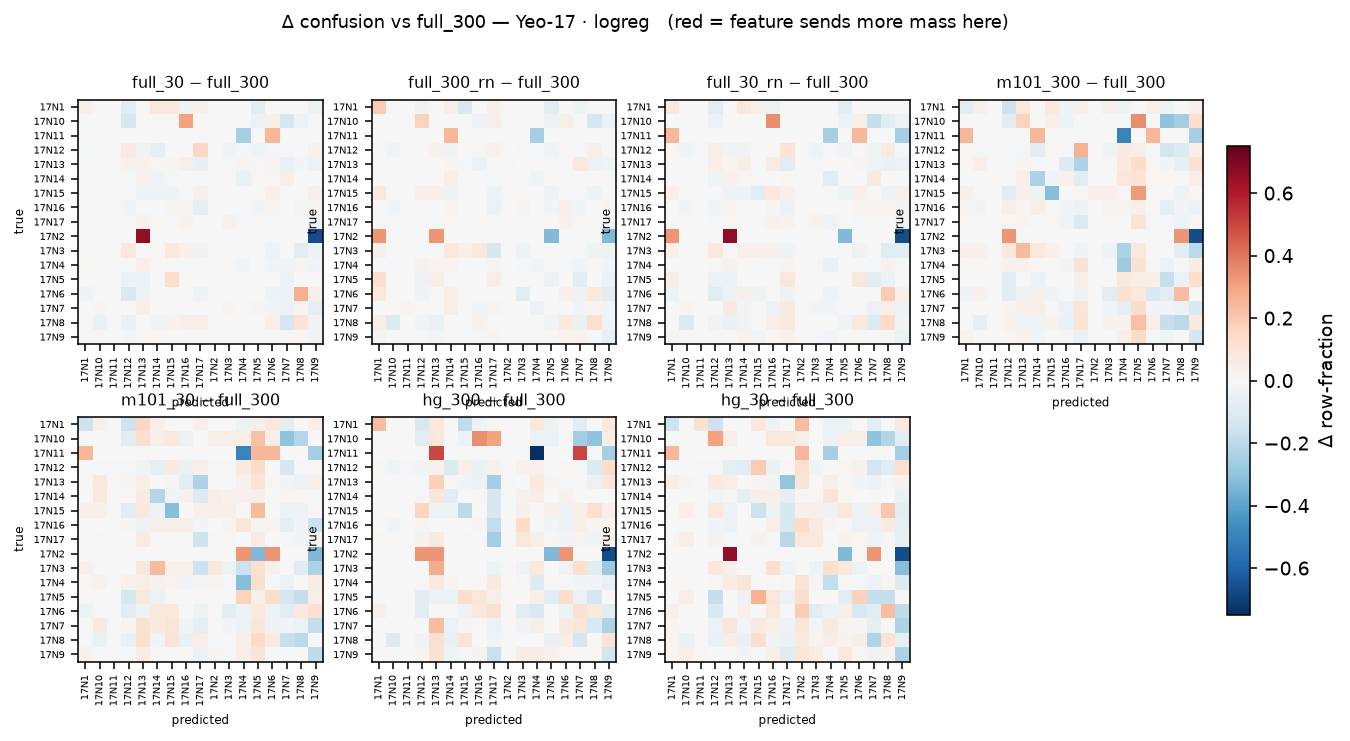
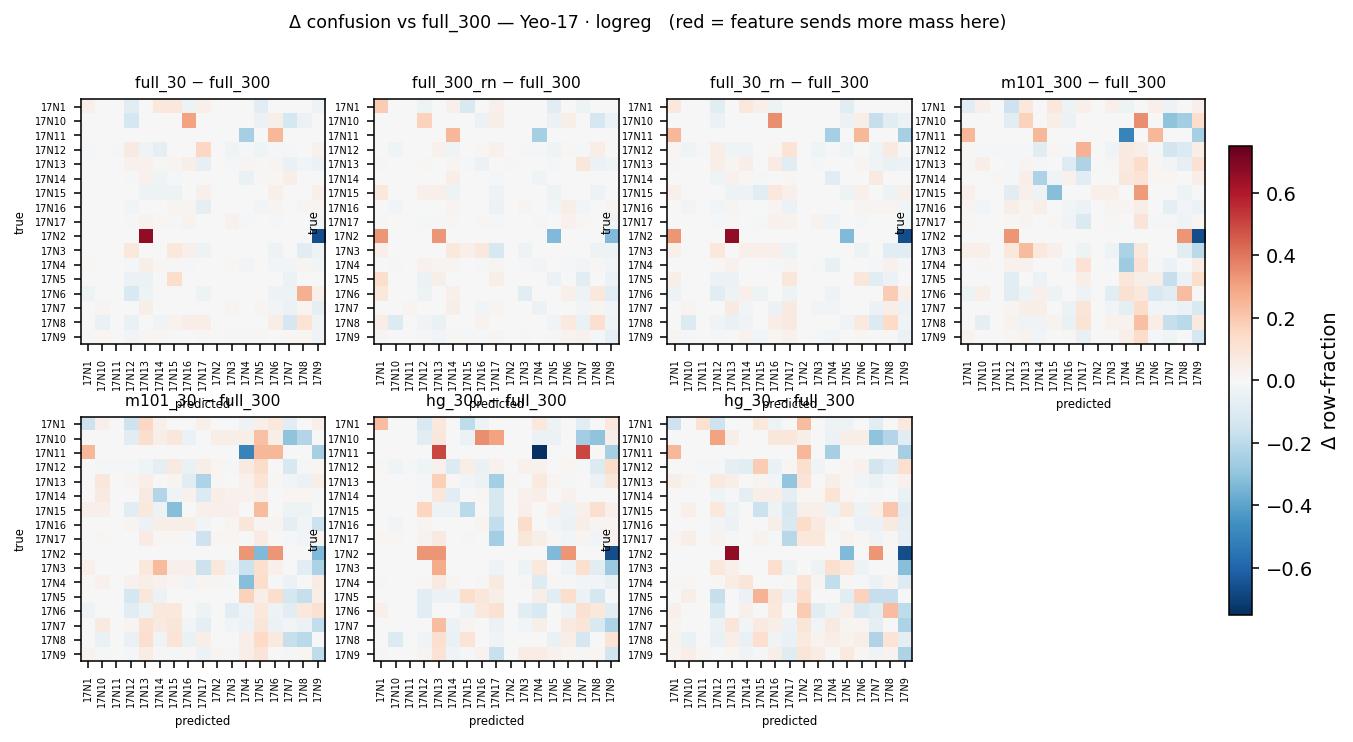
status site: reflect 2026-07-19 reruns (clustering K=9, decoding refresh)
- Clustering (02): repoint stage-02 to today's HG K-Means run 20260719_153420
  (K shifted 7->9, silhouette 0.152, n=2102). Fresh SEM-shaded centroids + the
  9 cluster chips + a new consensus-stability figure (Fig 2.5). Commit those PNGs.
- Decoding (03): refreshed _compare figures from today's 391 rerun; mark the stage
  "reran 07-19" in the status table, note the 2 full_300/logreg combos that crashed
  (fall back to Jun-24).
- Caveats reorganised: "Still to run" (clustering 213/252 ranking+recon; the 2 decoding
  reruns; nb 11) vs "Done 2026-07-19".

diff --git a/analysis_status.html b/analysis_status.html
@@ -118,7 +118,7 @@
     <div class="kpis">
       <div class="kpi"><div class="v">~29</div><div class="l">patients (EL · PAT · Micro)</div></div>
       <div class="kpi"><div class="v">3</div><div class="l">conditions (audio/pic/read)</div></div>
-      <div class="kpi"><div class="v">2095</div><div class="l">clustered samples</div></div>
+      <div class="kpi"><div class="v">2102</div><div class="l">clustered samples</div></div>
       <div class="kpi"><div class="v">0.60</div><div class="l">best condition decode (BA)</div></div>
     </div>
 
@@ -139,12 +139,12 @@
       <tr><td><b>01 ERSP</b></td><td><span class="pill ok">current</span></td>
         <td>ERSP + HG cube for the full cohort (nb 140).</td>
         <td>Micro/macro (nb 11) not yet run; spike‑sorting figures are notebook‑inline only.</td></tr>
-      <tr><td><b>02 Clustering</b></td><td><span class="pill ok">current</span></td>
-        <td><b>HG, K‑Means K=7</b>, n=2095, silhouette 0.146 — validated + ranked + recon.</td>
-        <td><code>NOTEBOOKS.md</code> still names the downsampled (212) track — <b>pick your headline</b>.</td></tr>
-      <tr><td><b>03 Decoding</b></td><td><span class="pill warn">refresh</span></td>
+      <tr><td><b>02 Clustering</b></td><td><span class="pill ok">reran 07‑19</span></td>
+        <td><b>HG, K‑Means K=9</b>, n=2102, silhouette 0.152 — with consensus‑stability validation.</td>
+        <td>K shifted <b>7→9</b> on this rerun; ranking + recon (213/252) not yet re‑run. <code>NOTEBOOKS.md</code> still names the 212 track — <b>pick your headline</b>.</td></tr>
+      <tr><td><b>03 Decoding</b></td><td><span class="pill ok">reran 07‑19</span></td>
         <td>Condition <b>BA 0.60</b> (HG line); Yeo‑7 0.35; Yeo‑17 0.20 — all beat the permutation null.</td>
-        <td>On‑disk notebooks are an older build — regenerate via <code>_build_notebooks.py</code>; decide the variant set.</td></tr>
+        <td>Notebooks regenerated + comparison figures refreshed today. 2 <code>full_300/logreg</code> combos crashed → fall back to Jun‑24; variant set still to decide.</td></tr>
       <tr><td><b>04 Pooling</b></td><td><span class="pill ok">current</span></td>
         <td>Functional roles matched, HGA timeseries + correlations, Neurosynth, fsaverage + poolv2 tool.</td>
         <td>poolv2 web tool now bit‑identical to the notebook (convergence fixed).</td></tr>
@@ -221,71 +221,82 @@
     <div class="eyebrow" style="color:var(--s2)">Stage 02</div>
     <h2 class="title">Clustering — functional response types</h2>
     <p class="lead">Group the trial‑averaged ERSPs into data‑driven response <b>types</b>. Every representation
-      clusters the <b>same</b> 2095 high‑activity samples; only the feature space changes. The high‑gamma track
+      clusters the <b>same</b> 2102 high‑activity samples; only the feature space changes. The high‑gamma track
       is the de‑facto canonical result.</p>
 
     <div class="kpis">
       <div class="kpi"><div class="v">HG</div><div class="l">canonical feature (232)</div></div>
-      <div class="kpi"><div class="v">K = 7</div><div class="l">K‑Means, silhouette 0.146</div></div>
-      <div class="kpi"><div class="v">2095</div><div class="l">samples clustered</div></div>
+      <div class="kpi"><div class="v">K = 9</div><div class="l">K‑Means, silhouette 0.152</div></div>
+      <div class="kpi"><div class="v">2102</div><div class="l">samples clustered</div></div>
     </div>
 
     <h3>Method</h3>
     <div class="method"><ul>
       <li><b>Representations (one orchestrator).</b> raw 129×300 · downsampled 15‑band×30 · minus101 (−1/0/+1) · <b>HG line</b> (70–150 Hz mean, 1‑D×300). Each → <b>K‑Means</b> + <b>Ward</b>, K‑sweep, best K by silhouette.</li>
-      <li><b>Why HG.</b> Cleanest separation (silhouette HG 0.146 &gt; downsampled 0.083 &gt; raw 0.045); optimum sits at low K, so HG uses <code>K∈[6..20]</code>.</li>
+      <li><b>Why HG.</b> Cleanest separation (silhouette HG 0.152 &gt; downsampled 0.083 &gt; raw 0.045); optimum sits at low K, so HG uses <code>K∈[6..20]</code>.</li>
       <li><b>Validation.</b> Consensus stability (50 restarts → co‑clustering + per‑cluster Jaccard), gap statistic, anatomical purity (Desikan‑Killiany).</li>
       <li><b>Ranking.</b> Dissolve clusters that fail to bridge both cohorts (EL↔PAT); composite = 4·cross‑patient + 3·stability + 2·condition + 1·spatial‑compactness.</li>
       <li><b>Recon.</b> Each cluster's electrodes rendered on the fsaverage pial surface.</li>
     </ul></div>
 
-    <h3>Results — HG, K‑Means K=7</h3>
+    <h3>Results — HG, K‑Means K=9</h3>
     <figure>
       <div class="cap"><div class="fignum">FIG 2.1</div><h4>Cluster quality — silhouette knife + PCA projection</h4>
         <ul>
-          <li>Left: per‑sample silhouette grouped by cluster; dashed line = overall mean (0.146).</li>
+          <li>Left: per‑sample silhouette grouped by cluster; dashed line = overall mean (0.152).</li>
           <li>Right: PCA(2) of the HG features coloured by cluster, with centroids.</li>
           <li>Moderate but positive separation — expected for continuous neural responses, not discrete categories.</li>
         </ul></div>
-      <div class="imgwrap"><img data-fig="02_FBM_Clustering/outputs/clustering/kmeans/hg/runs/20260605_183250/silhouette_per_cluster.png" alt="silhouette knife + PCA"></div>
+      <div class="imgwrap"><img data-fig="02_FBM_Clustering/outputs/clustering/kmeans/hg/runs/20260719_153420/silhouette_per_cluster.png" alt="silhouette knife + PCA"></div>
     </figure>
 
     <figure>
       <div class="cap"><div class="fignum">FIG 2.2</div><h4>Choosing K — silhouette across the sweep</h4>
         <ul>
-          <li>Silhouette vs K; the peak marks the chosen <b>K = 7</b> (K=6 and K=10 nearly tied).</li>
+          <li>Silhouette vs K; the peak marks the chosen <b>K = 9</b> (K=6 and K=10 nearly tied).</li>
           <li>The low optimum is exactly why the other representations' <code>[10..20]</code> range would miss it.</li>
         </ul></div>
-      <div class="imgwrap"><img data-fig="02_FBM_Clustering/outputs/clustering/kmeans/hg/runs/20260605_183250/silhouette_by_k.png" alt="silhouette by K"></div>
+      <div class="imgwrap"><img data-fig="02_FBM_Clustering/outputs/clustering/kmeans/hg/runs/20260719_153420/silhouette_by_k.png" alt="silhouette by K"></div>
     </figure>
 
     <figure>
-      <div class="cap"><div class="fignum">FIG 2.3</div><h4>The 7 response types — HG centroids (mean ± SEM)</h4>
+      <div class="cap"><div class="fignum">FIG 2.3</div><h4>The 9 response types — HG centroids (mean ± SEM)</h4>
         <ul>
           <li>Each panel = one cluster's mean high‑gamma time course across the warped trial (± SEM band).</li>
           <li>These are the "functional types": early stimulus‑locked, late response‑locked, sustained, suppressed, etc.</li>
         </ul></div>
       <div class="grid">
-        <figure><div class="cap"><h4>Cluster 0</h4></div><div class="imgwrap"><img data-fig="02_FBM_Clustering/outputs/clustering/kmeans/hg/runs/20260605_183250/cluster_centroids/cluster_00.png"></div></figure>
-        <figure><div class="cap"><h4>Cluster 1</h4></div><div class="imgwrap"><img data-fig="02_FBM_Clustering/outputs/clustering/kmeans/hg/runs/20260605_183250/cluster_centroids/cluster_01.png"></div></figure>
-        <figure><div class="cap"><h4>Cluster 2</h4></div><div class="imgwrap"><img data-fig="02_FBM_Clustering/outputs/clustering/kmeans/hg/runs/20260605_183250/cluster_centroids/cluster_02.png"></div></figure>
-        <figure><div class="cap"><h4>Cluster 3</h4></div><div class="imgwrap"><img data-fig="02_FBM_Clustering/outputs/clustering/kmeans/hg/runs/20260605_183250/cluster_centroids/cluster_03.png"></div></figure>
-        <figure><div class="cap"><h4>Cluster 4</h4></div><div class="imgwrap"><img data-fig="02_FBM_Clustering/outputs/clustering/kmeans/hg/runs/20260605_183250/cluster_centroids/cluster_04.png"></div></figure>
-        <figure><div class="cap"><h4>Cluster 5</h4></div><div class="imgwrap"><img data-fig="02_FBM_Clustering/outputs/clustering/kmeans/hg/runs/20260605_183250/cluster_centroids/cluster_05.png"></div></figure>
-        <figure><div class="cap"><h4>Cluster 6</h4></div><div class="imgwrap"><img data-fig="02_FBM_Clustering/outputs/clustering/kmeans/hg/runs/20260605_183250/cluster_centroids/cluster_06.png"></div></figure>
+        <figure><div class="cap"><h4>Cluster 0</h4></div><div class="imgwrap"><img data-fig="02_FBM_Clustering/outputs/clustering/kmeans/hg/runs/20260719_153420/cluster_centroids/cluster_00.png"></div></figure>
+        <figure><div class="cap"><h4>Cluster 1</h4></div><div class="imgwrap"><img data-fig="02_FBM_Clustering/outputs/clustering/kmeans/hg/runs/20260719_153420/cluster_centroids/cluster_01.png"></div></figure>
+        <figure><div class="cap"><h4>Cluster 2</h4></div><div class="imgwrap"><img data-fig="02_FBM_Clustering/outputs/clustering/kmeans/hg/runs/20260719_153420/cluster_centroids/cluster_02.png"></div></figure>
+        <figure><div class="cap"><h4>Cluster 3</h4></div><div class="imgwrap"><img data-fig="02_FBM_Clustering/outputs/clustering/kmeans/hg/runs/20260719_153420/cluster_centroids/cluster_03.png"></div></figure>
+        <figure><div class="cap"><h4>Cluster 4</h4></div><div class="imgwrap"><img data-fig="02_FBM_Clustering/outputs/clustering/kmeans/hg/runs/20260719_153420/cluster_centroids/cluster_04.png"></div></figure>
+        <figure><div class="cap"><h4>Cluster 5</h4></div><div class="imgwrap"><img data-fig="02_FBM_Clustering/outputs/clustering/kmeans/hg/runs/20260719_153420/cluster_centroids/cluster_05.png"></div></figure>
+        <figure><div class="cap"><h4>Cluster 6</h4></div><div class="imgwrap"><img data-fig="02_FBM_Clustering/outputs/clustering/kmeans/hg/runs/20260719_153420/cluster_centroids/cluster_06.png"></div></figure>
+        <figure><div class="cap"><h4>Cluster 7</h4></div><div class="imgwrap"><img data-fig="02_FBM_Clustering/outputs/clustering/kmeans/hg/runs/20260719_153420/cluster_centroids/cluster_07.png"></div></figure>
+        <figure><div class="cap"><h4>Cluster 8</h4></div><div class="imgwrap"><img data-fig="02_FBM_Clustering/outputs/clustering/kmeans/hg/runs/20260719_153420/cluster_centroids/cluster_08.png"></div></figure>
       </div>
     </figure>
 
     <figure>
       <div class="cap"><div class="fignum">FIG 2.4</div><h4>Centroid heatmap — all clusters at once</h4>
         <ul>
-          <li>Cluster × warped‑time HG matrix (one row per cluster); a compact view of the 7 profiles together.</li>
+          <li>Cluster × warped‑time HG matrix (one row per cluster); a compact view of the 9 profiles together.</li>
         </ul></div>
-      <div class="imgwrap"><img data-fig="02_FBM_Clustering/outputs/clustering/kmeans/hg/runs/20260605_183250/centroids.png" alt="centroid heatmap"></div>
+      <div class="imgwrap"><img data-fig="02_FBM_Clustering/outputs/clustering/kmeans/hg/runs/20260719_153420/centroids.png" alt="centroid heatmap"></div>
     </figure>
 
     <figure>
-      <div class="cap"><div class="fignum">FIG 2.5</div><h4>Anatomy — electrode coverage on fsaverage</h4>
+      <div class="cap"><div class="fignum">FIG 2.5</div><h4>Consensus stability — are the clusters reproducible?</h4>
+        <ul>
+          <li>Co‑clustering frequency over 50 K‑Means restarts (sample × sample); a sharp block‑diagonal = a cluster that reforms every time.</li>
+          <li>The key "is this real" check — strong within‑block agreement means the K=9 solution is stable, not a one‑off partition. (Regenerated in today's rerun.)</li>
+        </ul></div>
+      <div class="imgwrap"><img data-fig="02_FBM_Clustering/outputs/clustering/kmeans/hg/runs/20260719_153420/consensus_heatmap.png" alt="consensus stability"></div>
+    </figure>
+
+    <figure>
+      <div class="cap"><div class="fignum">FIG 2.6</div><h4>Anatomy — electrode coverage on fsaverage</h4>
         <ul>
           <li>All patients' contacts projected onto the common fsaverage surface (white‑matter contacts hidden).</li>
           <li>Establishes the spatial sampling that constrains every "where" claim in stages 02–04.</li>
@@ -364,9 +375,10 @@
       <li>Paired sign‑test + Wilcoxon accompany it — the fair test since the pair shares a time grid.</li></ul></div>
       <div class="imgwrap"><img data-fig="03_FBM_Classifying/outputs/classification/_compare/hg_vs_full.png" alt="hg vs full"></div></figure>
 
-    <div class="callout"><b>Refresh before presenting:</b> the on‑disk 03 notebooks are an older build (4 variants / 4 figures);
-      the current source (<code>_build_notebooks.py</code>) defines 8 variants and the 7‑figure set above — run it to regenerate.
-      Also decide whether the paper reports the <code>m101</code> (discretized) or <code>hg_*_rn</code> variant.</div>
+    <div class="callout"><b>Reran 2026‑07‑19:</b> notebooks regenerated from <code>_build_notebooks.py</code> (8 variants / the 7‑figure set above)
+      and the comparison figures rebuilt. Two <code>full_300/logreg</code> runs (condition + Yeo‑7) crashed mid‑experiment, so those
+      combos fall back to their Jun‑24 runs — re‑run just those in 320/330 to make everything today. Still to decide: whether the
+      paper reports the <code>m101</code> (discretized) or <code>hg_*_rn</code> variant.</div>
   </section>
 
   <!-- ============ STAGE 04 ============ -->
@@ -436,16 +448,24 @@
 
     <h3>Decisions only you can make</h3>
     <div class="method"><ul>
-      <li><b>Clustering headline (02).</b> HG (K=7, fully validated) vs the downsampled 212 track that <code>NOTEBOOKS.md</code> still names. Recommendation: HG headline, 212/raw as corroboration.</li>
+      <li><b>Clustering headline (02).</b> HG (K=9, fully validated) vs the downsampled 212 track that <code>NOTEBOOKS.md</code> still names. Recommendation: HG headline, 212/raw as corroboration.</li>
       <li><b>Decoding variant set (03).</b> The code dropped the discretized <code>m101</code> variants for <code>hg_*_rn</code>; on‑disk results still mix both. Decide which family the paper reports.</li>
       <li><b>Scope of the micro / spike‑sorting work (01).</b> Whether the micro‑vs‑macro and spike‑detection strands belong in the language story or are a separate methods paper.</li>
     </ul></div>
 
-    <h3>Small refreshes</h3>
+    <h3>Still to run</h3>
     <div class="method"><ul>
-      <li><b>Regenerate the 03 notebooks</b> from <code>_build_notebooks.py</code> (on‑disk copies are an older 4‑figure build; the merged source now has Fig 1–7 + the HG‑vs‑full analysis).</li>
-      <li><b>Rerun 460</b> to bake the correlation figures (4.3 / 4.4) into the notebook — the <code>savefig</code> is now wired in.</li>
+      <li><b>Clustering ranking + recon (213 / 252)</b> — today's K=9 rerun has clustering + consensus stability, but the cluster ranking and per‑cluster fsaverage recon haven't been re‑run on it yet.</li>
+      <li><b>Two decoding runs</b> — re‑run <code>full_300/logreg</code> for condition + Yeo‑7 in 320/330; they crashed mid‑experiment today.</li>
       <li><b>Micro/macro (nb 11)</b> hasn't been run to a saved output yet.</li>
+    </ul></div>
+
+    <h3>Done 2026‑07‑19</h3>
+    <div class="method"><ul>
+      <li><b>Clustering reran</b> — HG K‑Means reclustered (<b>K=9</b>, silhouette 0.152, n=2102) with current SEM‑shaded centroids + consensus stability.</li>
+      <li><b>Decoding reran</b> — notebooks regenerated from <code>_build_notebooks.py</code>; the comparison figures (Fig 1–7 + Δ‑confusion) rebuilt.</li>
+      <li><b>Loader hardened</b> — the run reader now skips crashed/incomplete run folders (was raising <code>FileNotFoundError</code>).</li>
+      <li><b>Pooling correlation figures</b> — <code>savefig</code> wired into notebook 460 (cells 13/15).</li>
     </ul></div>
 
     <h3>Recently fixed</h3>
